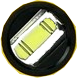
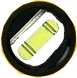
buuuubbbles

diff --git a/index.js b/index.js
@@ -1,20 +1,141 @@
-const bubbles = document.querySelectorAll('.bubble');
-const rotor = document.querySelector('.rotor');
-const container = document.querySelector('.wasserwaage');
-
-class RelativePosition {
+class Point2D {
     constructor(x, y) {
         this.x = x;
         this.y = y;
     }
+
+    applyToElement(element, width, height) {
+        element.style.left = this.x * width + 'px';
+        element.style.top = this.y * height + 'px';
+    }
+
+    add(value) {
+        if (value instanceof Point2D) {
+            return new Point2D(this.x + value.x, this.y + value.y);
+        } else {
+            return new Point2D(this.x + value, this.y + value);
+        }
+    }
+
+    multiply(value) {
+        if (value instanceof Point2D) {
+            return new Point2D(this.x * value.x, this.y * value.y);
+        } else {
+            return new Point2D(this.x * value, this.y * value);
+        }
+    }
 }
+
+const point1 = new Point2D(0.5, 0.5);
+const point2 = new Point2D(0.2, 0.3);
+const point3 = point1 * point2;
+console.log(point3);
+
+class PointRange {
+    constructor(min, max) {
+        this.min = min;
+        this.max = max;
+    }
+
+    position(value) {
+        return new Point2D(
+            this.min.x + value * (this.max.x - this.min.x),
+            this.min.y + value * (this.max.y - this.min.y)
+        );
+    }
+}
+
+function scaleBubble(bubble, x, y) {
+    bubble.style.transform = `scale(${x}, ${y})`;
+}
+
+const rotor = document.querySelector('.rotor');
+const container = document.querySelector('.wasserwaage');
+const bubbleVertical = document.querySelector('.bubble.vertical');
+const bubbleHorizontal = document.querySelector('.bubble.horizontal');
+const bubbleRotor = document.querySelector('.bubble.rotating');
+
+const bubbleVerticalRange = new PointRange(
+    new Point2D(0.143, 0.48),
+    new Point2D(0.143, 0.36)
+);
+const bubbleHorizontalRange = new PointRange(
+    new Point2D(0.471, 0.332),
+    new Point2D(0.522, 0.332)
+);
+
+let rotationX = 0;
+let rotationY = 0;
+let isRotating = false;
+let rotorAngle = 0;
+let initialAngle = Math.PI / 4;
+
+// for testing ui make both rotations change from 0 to 1 and back to 0 periodically
+setInterval(() => {
+    rotationX = Math.cos(Date.now() / 1000) / 2 + 0.5;
+    rotationY = Math.sin(Date.now() / 1000) / 2 + 0.5;
+    updatePositions();
+}, 1000 / 60);
 
 function updatePositions() {
     const { width, height } = container.getBoundingClientRect();
-    const rotorPosition = new RelativePosition(0.812, 0.32);
-    console.log(width, height, rotorPosition);
+    const rotorPosition = new Point2D(0.812, 0.32);
     rotor.style.left = rotorPosition.x * width + 'px';
     rotor.style.top = rotorPosition.y * height + 'px';
+
+    const bubbleVerticalPosition = bubbleVerticalRange.position(rotationY);
+    const bubbleVerticalScaleX = 0.6 + Math.abs(0.5 - rotationY) * 0.8;
+    bubbleVerticalPosition.x +=
+        (rotationX * 0.02 - 0.01) * (1 - bubbleVerticalScaleX);
+    bubbleVerticalPosition.applyToElement(bubbleVertical, width, height);
+    scaleBubble(
+        bubbleVertical,
+        bubbleVerticalScaleX,
+        1 - Math.abs(0.5 - rotationY) * 0.8
+    );
+
+    const bubbleHorizontalPosition = bubbleHorizontalRange.position(rotationX);
+    const bubbleHorizontalScaleY = 0.6 + Math.abs(0.5 - rotationX) * 0.8;
+    bubbleHorizontalPosition.y -=
+        (rotationY * 0.04 - 0.02) * (1 - bubbleHorizontalScaleY);
+    bubbleHorizontalPosition.applyToElement(bubbleHorizontal, width, height);
+    scaleBubble(
+        bubbleHorizontal,
+        1 - Math.abs(0.5 - rotationX) * 0.5,
+        bubbleHorizontalScaleY
+    );
+
+    const rotorCenter = new Point2D(0.849, 0.431);
+    const rotorRadius = new Point2D(0.025, 0.05);
+    const angleShift = 0.79;
+    const angleDelta = new Point2D(
+        Math.cos(rotorAngle - angleShift),
+        Math.sin(rotorAngle - angleShift)
+    );
+
+    const rotorDelta = angleDelta.multiply(rotorRadius);
+
+    const rotorRange = new PointRange(
+        rotorCenter.add(rotorDelta),
+        rotorCenter.add(rotorDelta.multiply(-1))
+    );
+
+    const positionFactorX = (0.5 - rotationX) * angleDelta.x;
+    const positionFactorY = (rotationY - 0.5) * angleDelta.y;
+    const positionFactor = positionFactorX + positionFactorY + 0.5;
+    const offsetX = (rotationX - 0.5) * (1 - angleDelta.x / 2);
+    const offsetY = (0.5 - rotationY) * (1 - angleDelta.y / 2);
+
+    const bubbleRotorPosition = rotorRange
+        .position(Math.max(0, Math.min(1, positionFactor)))
+        .add(new Point2D(offsetX * 0.004, offsetY * 0.015));
+
+    bubbleRotorPosition.applyToElement(bubbleRotor, width, height);
+    scaleBubble(
+        bubbleRotor,
+        1 - Math.abs(offsetX) * 0.5,
+        1 - Math.abs(offsetY) * 0.5
+    );
 }
 
 updatePositions();
@@ -26,10 +147,6 @@ container.onclick = (e) => {
     const y = e.offsetY / container.offsetHeight;
     console.log(x, y);
 };
-
-let isRotating = false;
-let rotorAngle = 0;
-let initialAngle = Math.PI / 4;
 
 rotor.onmousedown = () => {
     isRotating = true;
@@ -50,8 +167,8 @@ document.onmousemove = (e) => {
         const dx = e.clientX - x - width / 2;
         const dy = e.clientY - y - height / 2;
         rotorAngle = Math.atan2(dy, dx) - initialAngle;
-        console.log(dx, dy, Math.atan2(dy));
         rotor.style.transform = `rotate(${rotorAngle}rad)`;
+        console.log(rotorAngle);
     }
 };
 

diff --git a/index.html b/index.html
@@ -14,9 +14,9 @@
         <h1>Online Wasserwaage</h1>
         <div class="wasserwaage-container">
             <img src="wasserwaage.png" alt="Wasserwaage" class="wasserwaage" />
-            <!-- <img src="bubble.png" alt="Blase" class="bubble" />
-            <img src="bubble.png" alt="Blase" class="bubble" />
-            <img src="bubble.png" alt="Blase" class="bubble" /> -->
+            <img src="bubble.png" alt="Blase" class="bubble vertical" />
+            <img src="bubble.png" alt="Blase" class="bubble horizontal" />
+            <img src="bubble.png" alt="Blase" class="bubble rotating" />
             <img src="rotor.png" alt="Rotor" class="rotor" />
         </div>
     </bodyp>

diff --git a/index.css b/index.css
@@ -37,13 +37,19 @@ img {
 }
 
 .rotor {
-    width: 9%;
+    width: 9.5%;
     top: 40%;
     left: 81%;
     position: absolute;
+    z-index: 2;
 }
 
 .rotor:hover {
-    transform: scale(1.1);
     cursor: grab;
+}
+
+.bubble {
+    z-index: 3;
+    width: 1.8%;
+    position: absolute;
 }
